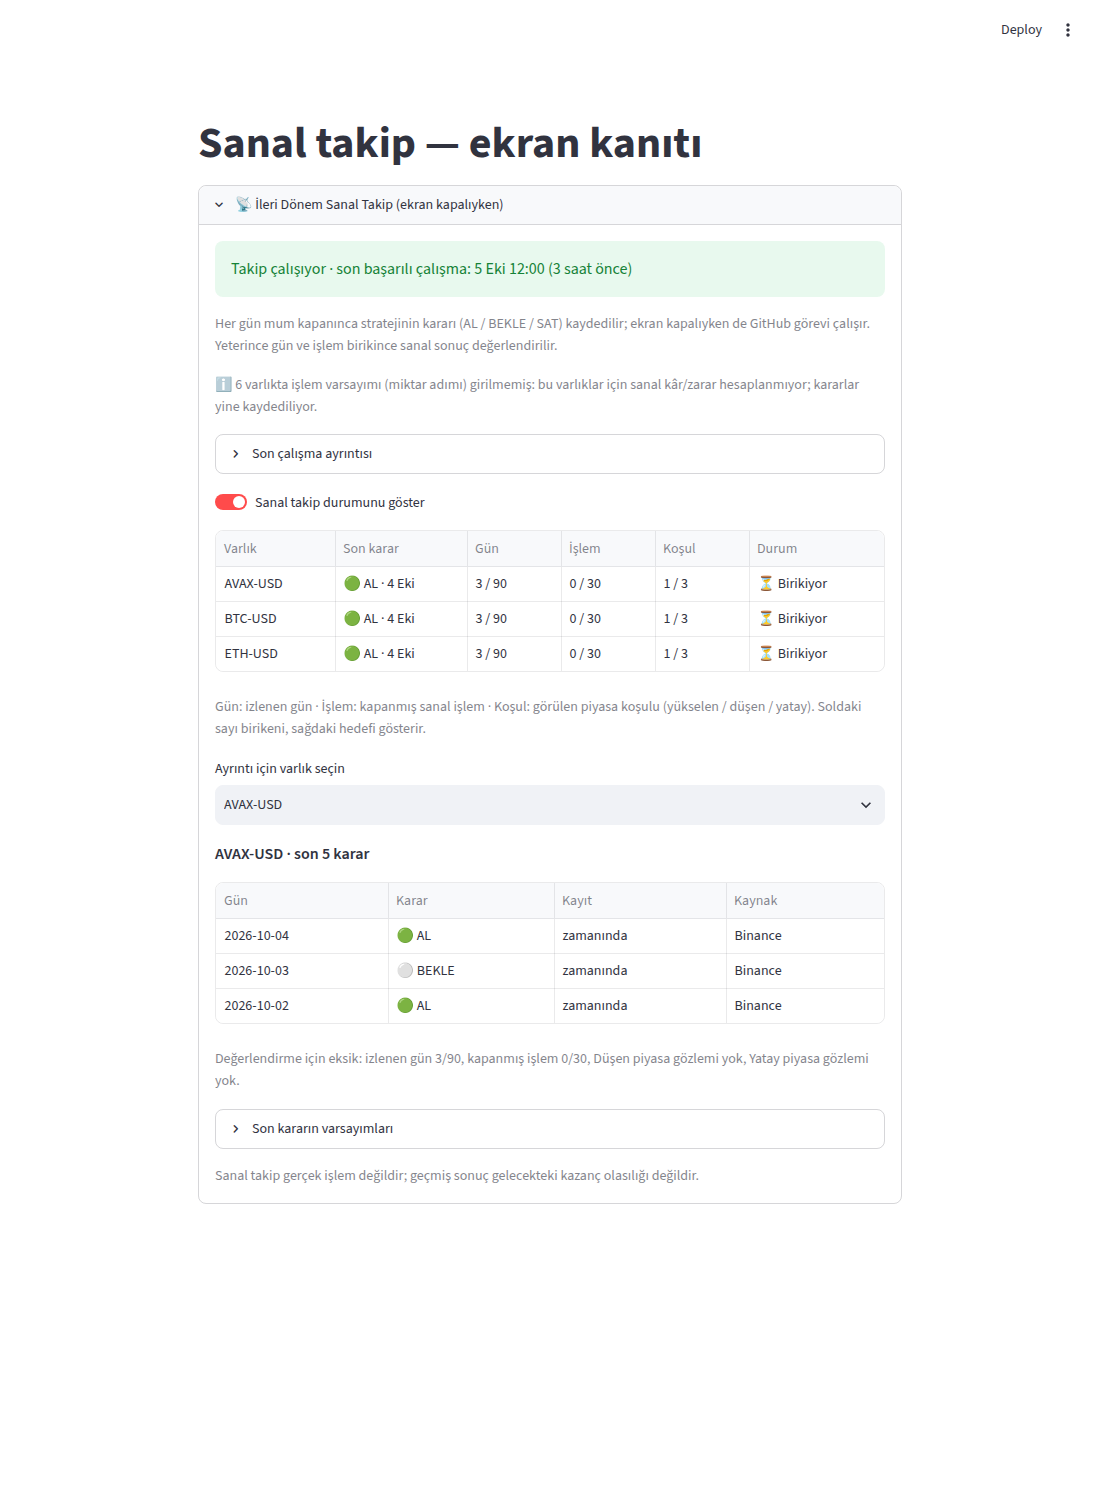
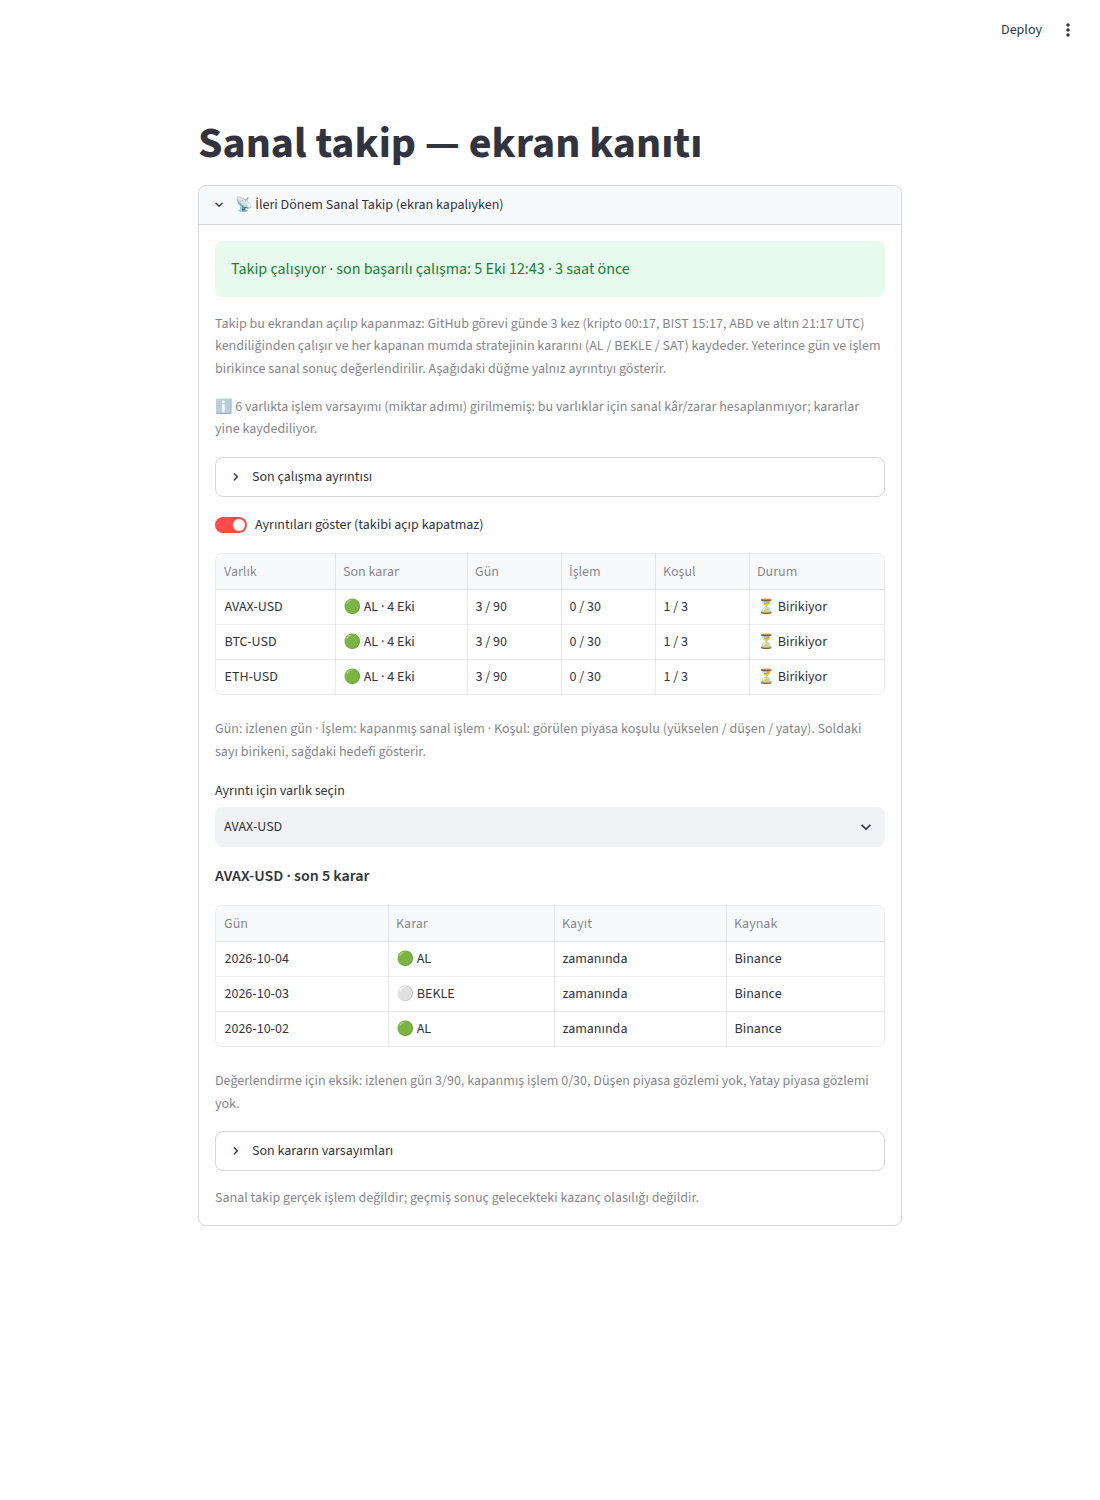
fix(sanal-takip): not bölme, sürüm ayrımı, zaman biçimi, güncel kanıt görseli (QA bulguları) [plan 0012]
Claude-Session: https://claude.ai/code/session_01GukZv86J9EPsMqUxiesHyu

Changed region(s): [[0.1855, 0.2147, 0.8036, 0.828], [0.5873, 0.368, 0.6491, 0.4293], [0.4945, 0.1533, 0.5564, 0.184]]

diff --git a/forward_ui.py b/forward_ui.py
@@ -6,6 +6,7 @@ Kayıtlar `forward_tracker` tablolarından okunur; burası yalnız gösterim sat
 """
 from __future__ import annotations
 
+import re
 from dataclasses import dataclass
 from datetime import datetime, timedelta, timezone
 from zoneinfo import ZoneInfo
@@ -55,8 +56,14 @@ EXPLAIN = ("Takip bu ekrandan açılıp kapanmaz: GitHub görevi günde 3 kez (k
 DISCLAIMER = "Sanal takip gerçek işlem değildir; geçmiş sonuç gelecekteki kazanç olasılığı değildir."
 
 
+def _aware(moment: datetime) -> datetime:
+    """Saat dilimi olmayan zaman UTC sayılır (depo UTC yazar)."""
+    return moment if moment.tzinfo is not None else moment.replace(tzinfo=timezone.utc)
+
+
 def friendly_time(moment: datetime, now: datetime) -> str:
-    """`5 Eki 08:52 (3 saat önce)` biçimi; İstanbul saati (spec 0012)."""
+    """`5 Eki 08:52 · 3 saat önce` biçimi; İstanbul saati (spec 0012). İç içe parantez üretmez."""
+    moment, now = _aware(moment), _aware(now)
     local = moment.astimezone(ISTANBUL)
     age = now - moment
     if age < timedelta(hours=1):
@@ -65,7 +72,7 @@ def friendly_time(moment: datetime, now: datetime) -> str:
         ago = f"{int(age.total_seconds() // 3600)} saat önce"
     else:
         ago = f"{age.days} gün önce"
-    return f"{local.day} {_MONTHS[local.month - 1]} {local:%H:%M} ({ago})"
+    return f"{local.day} {_MONTHS[local.month - 1]} {local:%H:%M} · {ago}"
 
 
 @dataclass(frozen=True)
@@ -79,7 +86,9 @@ class StatusView:
 def _split_note(note: str) -> tuple[list[str], list[str]]:
     """Koşucu notunu (`;` ile birleşik) iki gruba ayırır: eksik varsayım olan semboller ve diğer notlar."""
     missing, others = [], []
-    for part in (p.strip() for p in note.split(";")):
+    # Not "SEMBOL: ...; ..." biçiminde birleştirilmiş cümlelerdir; yalnız yeni "SEMBOL:" başında bölünür,
+    # böylece bir notun kendi içindeki ";" (… eksik; sanal işlem hesaplanmadı.) parçalanmaz.
+    for part in (p.strip() for p in re.split(r";\s+(?=[A-Za-z0-9_.=/\-]+:\s)", note)):
         if not part:
             continue
         if _MISSING_SETTINGS in part:
@@ -175,21 +184,22 @@ def _short_day(day) -> str:
 def build_summary_rows(pairs=None) -> list[dict]:
     """Varlık başına tek satır: son karar, birikim sayaçları ve durum (spec 0012)."""
     rows = []
-    for asset, version in (pairs if pairs is not None else ft.tracked_pairs())[:MAX_PAIRS]:
+    shown = (pairs if pairs is not None else ft.tracked_pairs())[:MAX_PAIRS]
+    for asset, version in shown:
         decided = ft.decisions(asset, version)
         verdict = ft.assess(asset, version)
         counted = [d for d in decided if d.on_time and d.real_clock]
         regimes = {d.regime for d in counted if d.regime}
         last = decided[-1] if decided else None
         rows.append({
-            "Varlık": asset,
+            "Varlık": asset if sum(a == asset for a, _ in shown) == 1 else f"{asset} ({version})",
             "Son karar": f"{_DECISION_ICON.get(last.decision, last.decision)} · {_short_day(last.candle_day)}"
                          if last else "—",
             "Gün": f"{len(counted)} / {ForwardConfig.MIN_TRACKED_DAYS}",
             "İşlem": f"{ft.closed_trades(asset, version)} / {ForwardConfig.MIN_CLOSED_TRADES}",
             "Koşul": f"{len(regimes)} / 3",
             "Durum": "✅ Yeterli kanıt" if verdict.sufficient else "⏳ Birikiyor",
-            "_version": version,
+            "_asset": asset, "_version": version,
         })
     return rows
 
@@ -228,7 +238,7 @@ def render_forward_panel(now: datetime) -> None:
             st.info("Henüz kayıtlı karar yok. İlk karar, zamanlanmış görev çalışınca burada görünür.")
             st.caption(DISCLAIMER)
             return
-        st.dataframe(pd.DataFrame([{k: v for k, v in r.items() if k != "_version"} for r in rows]),
+        st.dataframe(pd.DataFrame([{k: v for k, v in r.items() if not k.startswith("_")} for r in rows]),
                      width="stretch", hide_index=True)
         st.caption("Gün: izlenen gün · İşlem: kapanmış sanal işlem · Koşul: görülen piyasa koşulu "
                    "(yükselen / düşen / yatay). Soldaki sayı birikeni, sağdaki hedefi gösterir.")
@@ -236,8 +246,9 @@ def render_forward_panel(now: datetime) -> None:
             st.caption(f"{len(pairs) - MAX_PAIRS} varlık daha izleniyor; tabloda ilk {MAX_PAIRS} gösterilir.")
         names = [r["Varlık"] for r in rows]
         picked = st.selectbox("Ayrıntı için varlık seçin", names, key="forward_detail_asset")
-        version = next(r["_version"] for r in rows if r["Varlık"] == picked)
-        detail = build_detail(picked, version)
+        chosen = next(r for r in rows if r["Varlık"] == picked)
+        asset, version = chosen["_asset"], chosen["_version"]
+        detail = build_detail(asset, version)
     except StorageAccessError:
         st.warning("İleri takip kayıtları okunamadı; kayıt deposu erişimini kontrol edin.")
         return

diff --git a/tests/test_forward_ui.py b/tests/test_forward_ui.py
@@ -59,11 +59,11 @@ USER_NOTE = "; ".join(
 
 
 def test_ac01_friendly_time_is_istanbul_local_and_relative():
-    """AC01 — `friendly_time` İstanbul saatiyle "5 Eki 08:52 (3 saat önce)" üretir."""
+    """AC01 — `friendly_time` İstanbul saatiyle "5 Eki 08:52 · 3 saat önce" üretir."""
     moment = datetime(2026, 10, 5, 5, 52, tzinfo=timezone.utc)            # İstanbul +3 → 08:52
-    assert forward_ui.friendly_time(moment, moment + timedelta(hours=3)) == "5 Eki 08:52 (3 saat önce)"
-    assert forward_ui.friendly_time(moment, moment + timedelta(minutes=10)).endswith("(az önce)")
-    assert forward_ui.friendly_time(moment, moment + timedelta(days=2)).endswith("(2 gün önce)")
+    assert forward_ui.friendly_time(moment, moment + timedelta(hours=3)) == "5 Eki 08:52 · 3 saat önce"
+    assert forward_ui.friendly_time(moment, moment + timedelta(minutes=10)).endswith("· az önce")
+    assert forward_ui.friendly_time(moment, moment + timedelta(days=2)).endswith("· 2 gün önce")
 
 
 def test_ac02_status_view_covers_never_ok_stale_and_failed():
@@ -133,3 +133,33 @@ def test_ac06_screen_is_readable_not_a_wall_of_text(store, monkeypatch, processe
     app = next(t for t in app.toggle if t.label == "Ayrıntıları göster (takibi açıp kapatmaz)").set_value(True).run()
     table = next(f.value for f in app.dataframe if "Son karar" in f.value.columns)
     assert list(table["Varlık"]) == ["BTC-USD"]
+
+
+def test_ac03_each_missing_settings_note_is_split_per_asset_without_leftovers():
+    """AC03 — Not, "SEMBOL:" başlarında bölünür: "sanal işlem hesaplanmadı" artığı oluşmaz, başarısız çalışma uyarısına yapışmaz."""
+    now = datetime(2026, 10, 5, 12, tzinfo=timezone.utc)
+    ft.record_run(now, False, USER_NOTE + "; BTC-USD: veri alınamadı (Binance).")
+    view = forward_ui.build_status_view(now)
+    failed = next(text for level, text in view.headline if level == "warn")
+    assert "sanal işlem hesaplanmadı" not in failed and "veri alınamadı" in failed
+    assert "sanal işlem hesaplanmadı" not in " ".join(view.details)
+
+
+def test_ac01_friendly_time_accepts_naive_datetimes_and_has_no_nested_parentheses():
+    """AC01 — Saat dilimsiz zaman UTC sayılır (TypeError yok); biçim iç içe parantez üretmez."""
+    naive = datetime(2026, 10, 5, 12, 0)
+    text = forward_ui.friendly_time(naive, datetime(2026, 10, 5, 12, 30, tzinfo=timezone.utc))
+    assert "(" not in text and text.startswith("5 Eki 15:00")
+
+
+def test_ac04_two_versions_of_one_asset_are_told_apart():
+    """AC04 — Aynı varlığın iki strateji sürümü tabloda ve seçimde ayrı etiket alır; ayrıntı doğru sürümü açar."""
+    at = ft.available_at("KRIPTO", D0) + timedelta(minutes=20)
+    for version in ("V1", "V1~aday"):
+        ft.record(ft.ForwardDecision(
+            asset="BTC-USD", strategy_version=version, candle_day=D0, decision="AL", source="Binance",
+            evaluated_at=at, candle={"close": "100"}, on_time=True, real_clock=True,
+            regime="YUKSELEN", regime_version="R1"))
+    rows = forward_ui.build_summary_rows()
+    assert [r["Varlık"] for r in rows] == ["BTC-USD (V1)", "BTC-USD (V1~aday)"]
+    assert [r["_version"] for r in rows] == ["V1", "V1~aday"]
